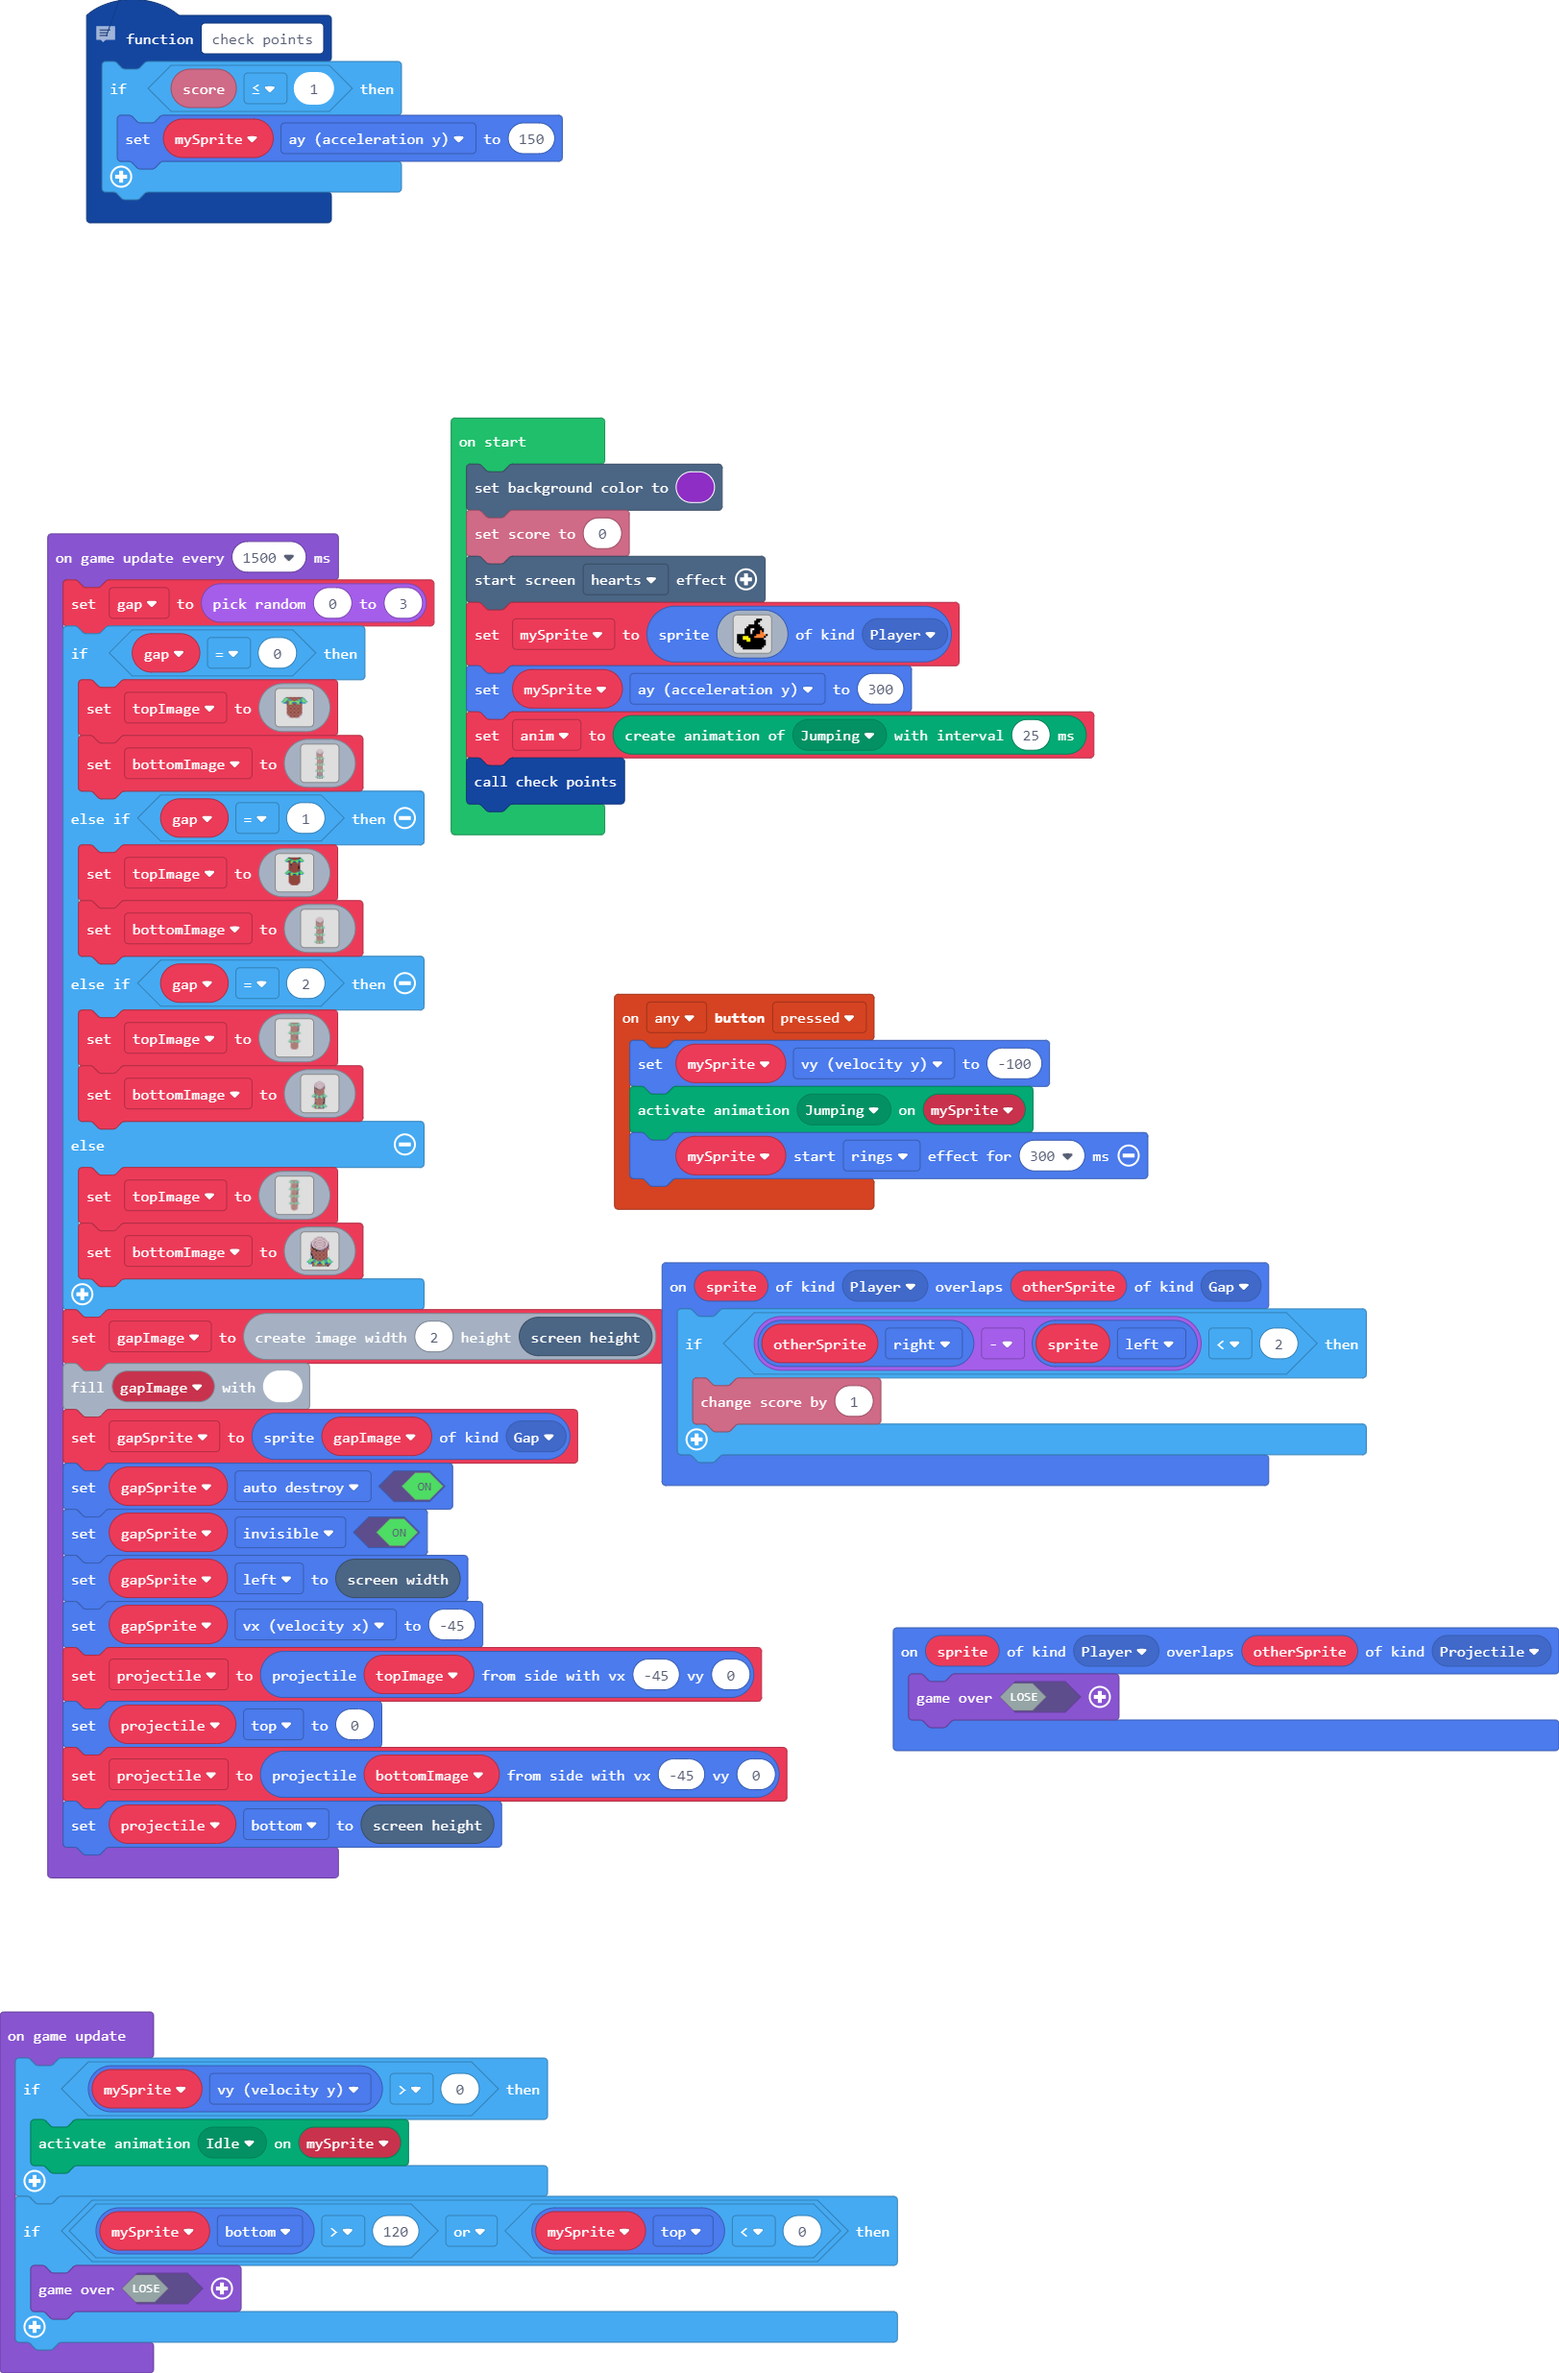
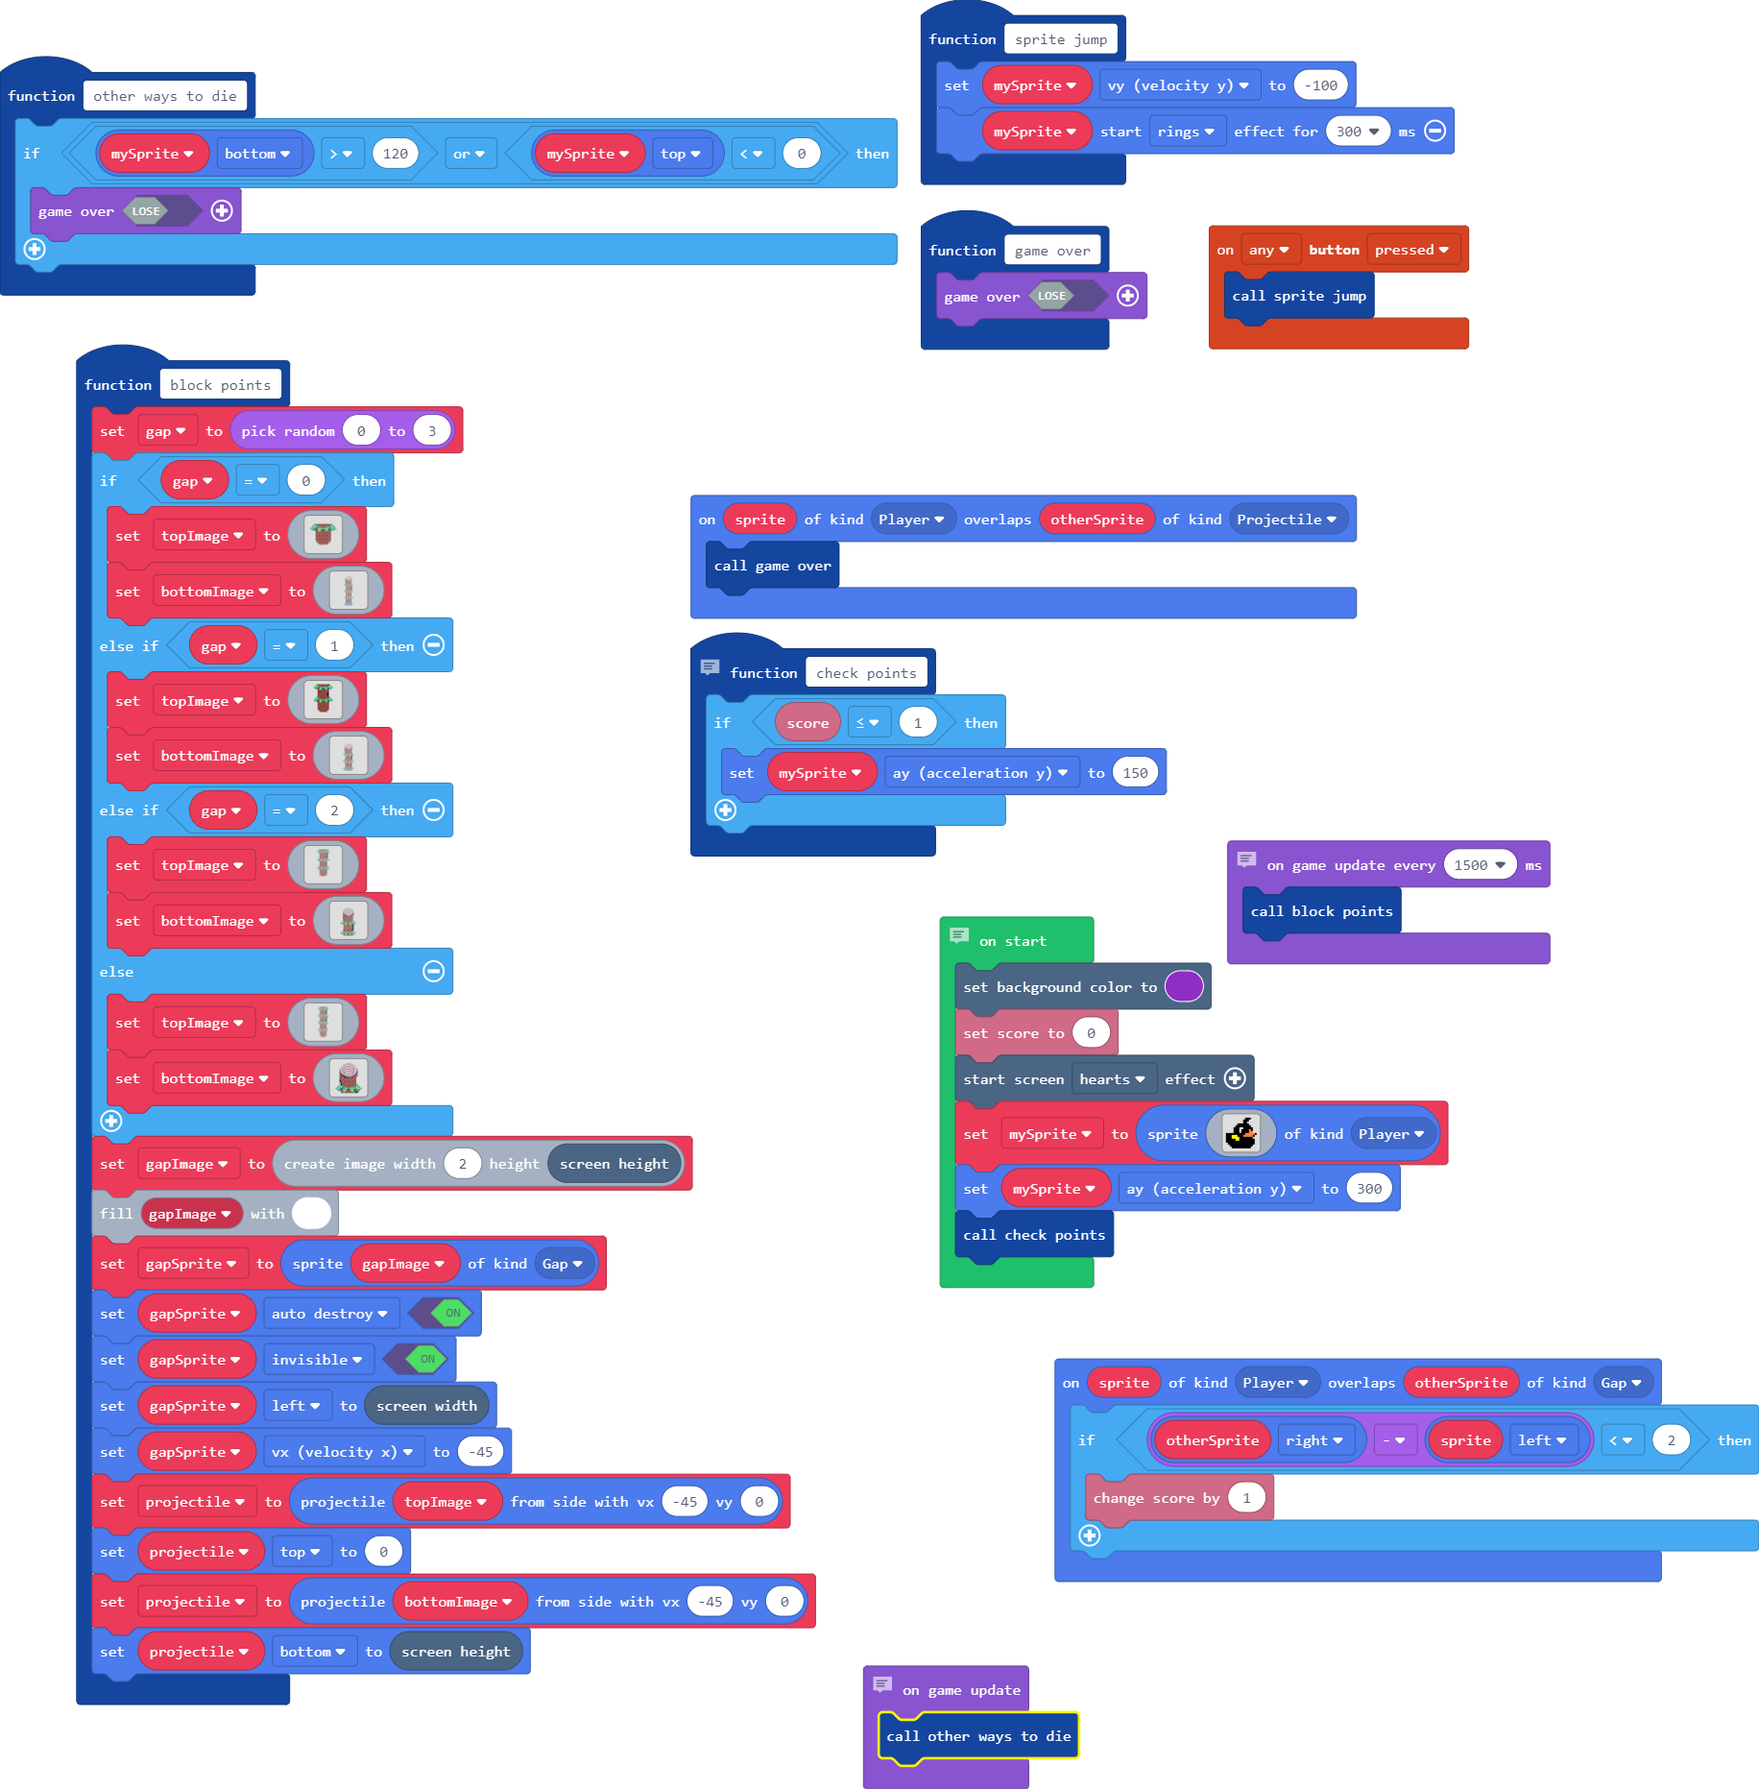
Update main.blocks, main.ts

diff --git a/main.ts b/main.ts
@@ -11,52 +11,19 @@ sprites.onOverlap(SpriteKind.Player, SpriteKind.Gap, function (sprite, otherSpri
         info.changeScoreBy(1)
     }
 })
-// change jump power
-function check_points () {
-    if (info.score() <= 1) {
-        mySprite.ay = 150
+function sprite_jump () {
+    mySprite.vy = -100
+    mySprite.startEffect(effects.rings, 300)
+}
+function other_ways_to_die () {
+    if (mySprite.bottom > 120 || mySprite.top < 0) {
+        game.over(false)
     }
 }
-sprites.onOverlap(SpriteKind.Player, SpriteKind.Projectile, function (sprite, otherSprite) {
+function game_over () {
     game.over(false)
-})
-controller.anyButton.onEvent(ControllerButtonEvent.Pressed, function () {
-    mySprite.vy = -100
-    animation.setAction(mySprite, ActionKind.Jumping)
-    mySprite.startEffect(effects.rings, 300)
-})
-let projectile: Sprite = null
-let gapSprite: Sprite = null
-let gapImage: Image = null
-let bottomImage: Image = null
-let topImage: Image = null
-let gap = 0
-let mySprite: Sprite = null
-scene.setBackgroundColor(10)
-info.setScore(0)
-effects.hearts.startScreenEffect()
-mySprite = sprites.create(img`
-. . . . . . . . . . f f f . . . 
-. . . . . . . . . f f f . . . . 
-. . . . . . . . . f f . . . . . 
-. . . . . . f f f f f f . . . . 
-. . . . . f f f f f f f f . . . 
-. . . . f f f d 1 f f f f f . . 
-. . . . f f f 1 f f f f 4 f . . 
-. . . . f f f d f f f f 4 4 . . 
-f f f f f f f f f f 4 4 4 4 4 f 
-f f f 5 5 5 f f f 4 4 4 4 4 f . 
-f f f 5 5 5 5 f f f f f f f . . 
-f f f f f 5 5 f f f f f f f f . 
-f f f f f f f f f f f f f f f . 
-. f f f f f f f f f f f f f f . 
-. . f f f f f f f f f f f f . . 
-. . . f f f f f f f f f f . . . 
-`, SpriteKind.Player)
-mySprite.ay = 300
-let anim = animation.createAnimation(ActionKind.Jumping, 25)
-check_points()
-game.onUpdateInterval(1500, function () {
+}
+function block_points () {
     gap = Math.randomRange(0, 3)
     if (gap == 0) {
         topImage = img`
@@ -426,12 +393,57 @@ game.onUpdateInterval(1500, function () {
     projectile.top = 0
     projectile = sprites.createProjectileFromSide(bottomImage, -45, 0)
     projectile.bottom = scene.screenHeight()
+}
+// change jump power
+function check_points () {
+    if (info.score() <= 1) {
+        mySprite.ay = 150
+    }
+}
+sprites.onOverlap(SpriteKind.Player, SpriteKind.Projectile, function (sprite, otherSprite) {
+    game_over()
 })
+controller.anyButton.onEvent(ControllerButtonEvent.Pressed, function () {
+    sprite_jump()
+})
+let projectile: Sprite = null
+let gapSprite: Sprite = null
+let gapImage: Image = null
+let bottomImage: Image = null
+let topImage: Image = null
+let gap = 0
+let mySprite: Sprite = null
+scene.setBackgroundColor(10)
+info.setScore(0)
+effects.hearts.startScreenEffect()
+mySprite = sprites.create(img`
+. . . . . . . . . . f f f . . . 
+. . . . . . . . . f f f . . . . 
+. . . . . . . . . f f . . . . . 
+. . . . . . f f f f f f . . . . 
+. . . . . f f f f f f f f . . . 
+. . . . f f f d 1 f f f f f . . 
+. . . . f f f 1 f f f f 4 f . . 
+. . . . f f f d f f f f 4 4 . . 
+f f f f f f f f f f 4 4 4 4 4 f 
+f f f 5 5 5 f f f 4 4 4 4 4 f . 
+f f f 5 5 5 5 f f f f f f f . . 
+f f f f f 5 5 f f f f f f f f . 
+f f f f f f f f f f f f f f f . 
+. f f f f f f f f f f f f f f . 
+. . f f f f f f f f f f f f . . 
+. . . f f f f f f f f f f . . . 
+`, SpriteKind.Player)
+mySprite.ay = 300
+check_points()
+// this spawns the logs
+//
+// log images
+//
+game.onUpdateInterval(1500, function () {
+    block_points()
+})
+// game over
 game.onUpdate(function () {
-    if (mySprite.vy > 0) {
-        animation.setAction(mySprite, ActionKind.Idle)
-    }
-    if (mySprite.bottom > 120 || mySprite.top < 0) {
-        game.over(false)
-    }
+    other_ways_to_die()
 })
